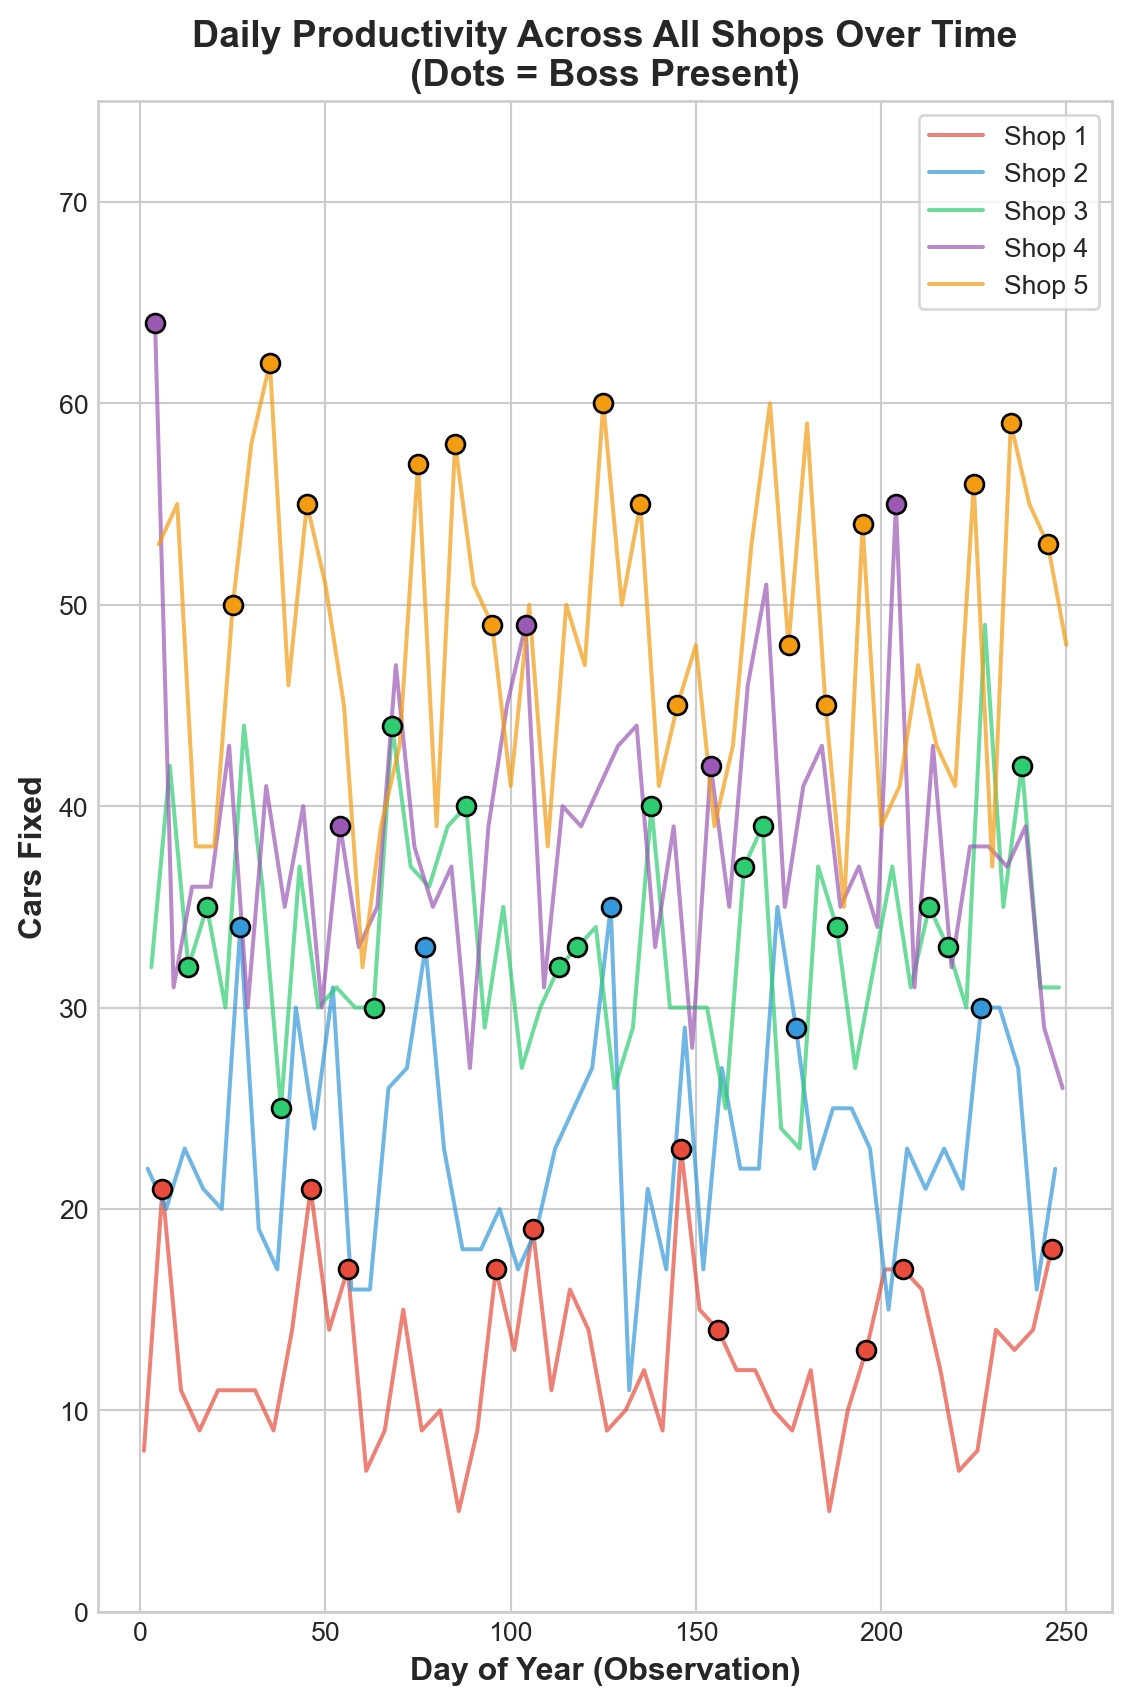
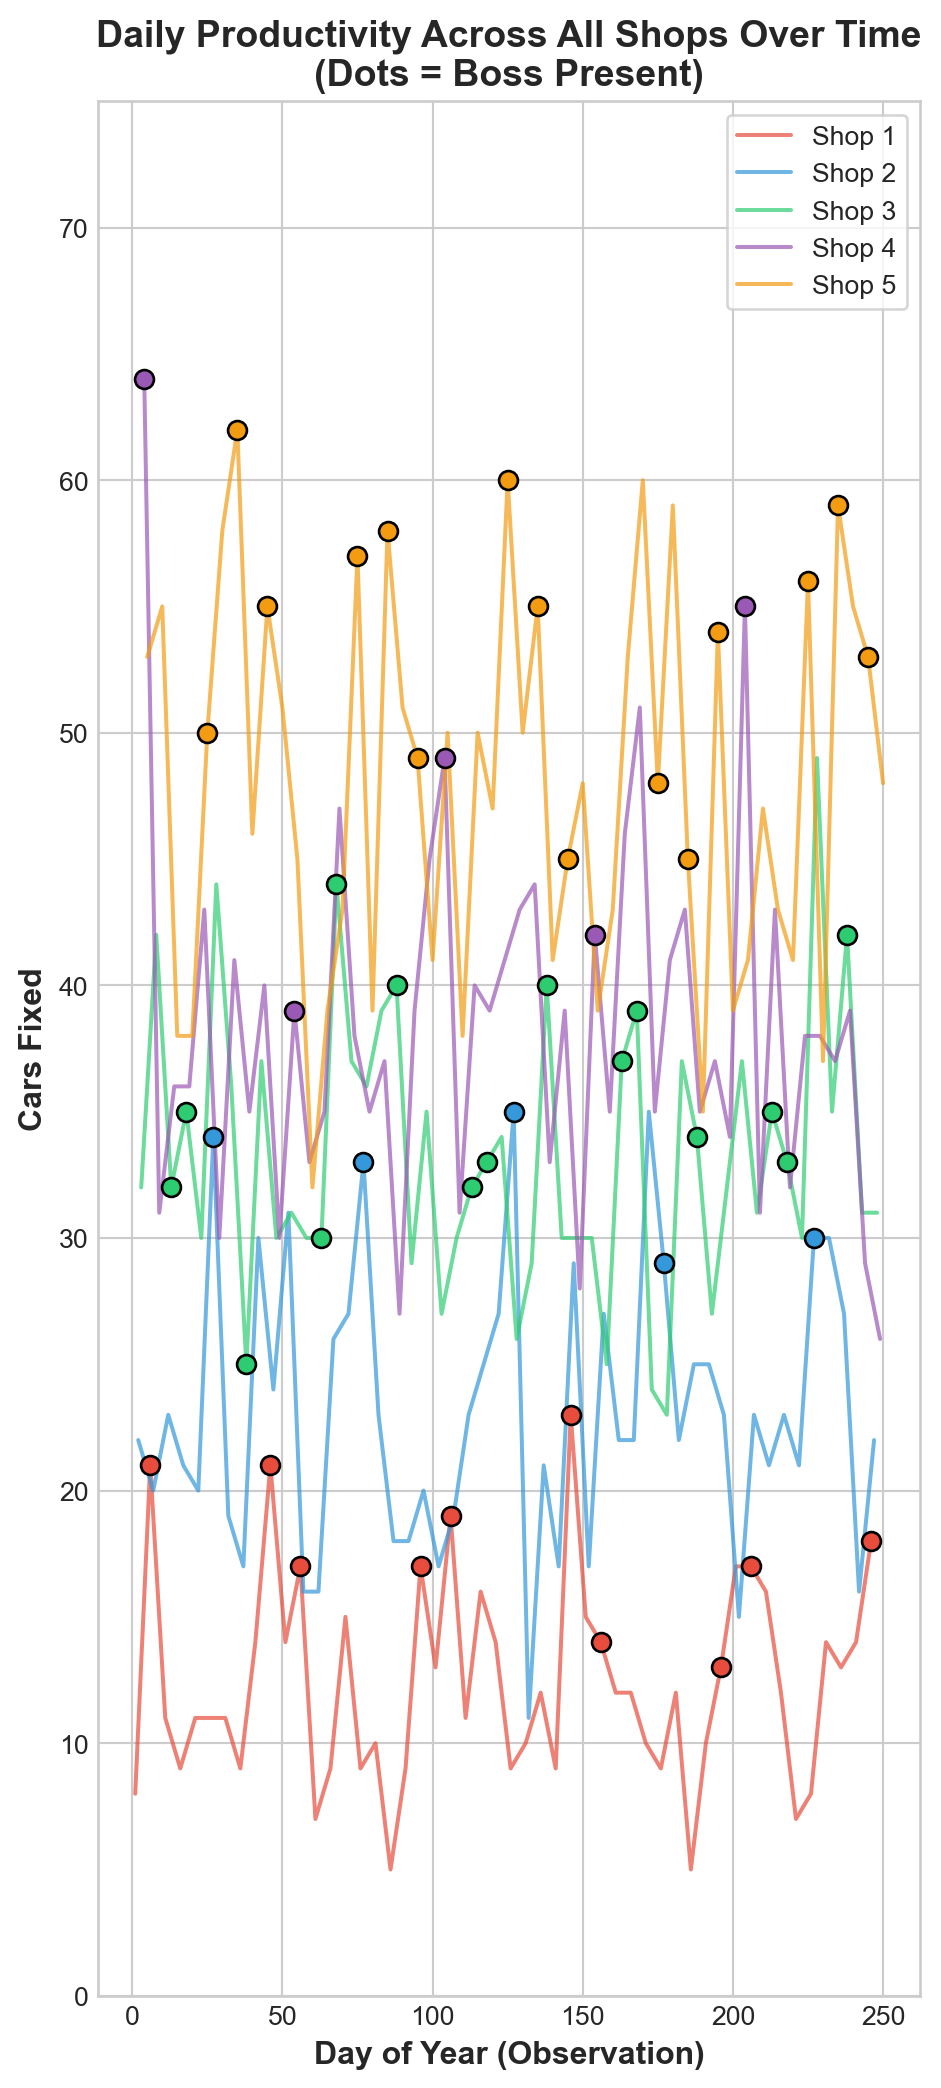
Render index.qmd

diff --git a/index.html b/index.html
@@ -103,7 +103,7 @@ ul.task-list li input[type="checkbox"] {
 <section id="what-the-data-shows" class="level2">
 <h2 class="anchored" data-anchor-id="what-the-data-shows">What the Data Shows</h2>
 <p>We analyzed 250 days of productivity data across your 5 shops. Here’s every single day plotted—you can see the pattern clearly:</p>
-<div id="d6710095" class="cell" data-fig-height="6" data-fig-width="8" data-execution_count="2">
+<div id="7e7b2c06" class="cell" data-fig-height="6" data-fig-width="8" data-execution_count="2">
 <div class="cell-output cell-output-display">
 <div class="quarto-figure quarto-figure-center">
 <figure class="figure">
@@ -119,7 +119,7 @@ ul.task-list li input[type="checkbox"] {
 <section id="d-view-shop-performance-landscape" class="level2">
 <h2 class="anchored" data-anchor-id="d-view-shop-performance-landscape">3D View: Shop Performance Landscape</h2>
 <p>Here’s an interactive 3D perspective showing all three dimensions at once—Shop ID, your presence status, and cars fixed:</p>
-<div id="a5d7617c" class="cell" data-fig-height="8" data-fig-width="10" data-execution_count="3">
+<div id="6d5a92a5" class="cell" data-fig-height="8" data-fig-width="10" data-execution_count="3">
 <div class="cell-output cell-output-display">
 <div class="quarto-figure quarto-figure-center">
 <figure class="figure">
@@ -135,7 +135,7 @@ ul.task-list li input[type="checkbox"] {
 <section id="the-boss-boost-effect" class="level2">
 <h2 class="anchored" data-anchor-id="the-boss-boost-effect">The “Boss Boost” Effect</h2>
 <p>Here’s the real question: <strong>How many extra cars get fixed when you’re at each shop?</strong></p>
-<div id="66478313" class="cell" data-fig-height="5" data-fig-width="9" data-execution_count="4">
+<div id="c5a13553" class="cell" data-fig-height="5" data-fig-width="9" data-execution_count="4">
 <div class="cell-output cell-output-display">
 <div class="quarto-figure quarto-figure-center">
 <figure class="figure">
@@ -192,7 +192,7 @@ ul.task-list li input[type="checkbox"] {
 <section id="how-confident-can-you-be" class="level2">
 <h2 class="anchored" data-anchor-id="how-confident-can-you-be">How Confident Can You Be?</h2>
 <p><strong>The honest truth:</strong> We only have 250 days of data, and you weren’t at every shop equally. Here’s what that means:</p>
-<div id="ca54e0e9" class="cell" data-fig-height="3" data-fig-width="6" data-execution_count="5">
+<div id="56c3b165" class="cell" data-fig-height="3" data-fig-width="6" data-execution_count="5">
 <div class="cell-output cell-output-display">
 <div class="quarto-figure quarto-figure-center">
 <figure class="figure">
@@ -219,7 +219,7 @@ ul.task-list li input[type="checkbox"] {
 <section id="the-money-question" class="level2">
 <h2 class="anchored" data-anchor-id="the-money-question">The Money Question 💰</h2>
 <p>Let’s say each car fixed earns you <strong>$200 in profit</strong>. Here’s what different scheduling strategies could mean for your wallet:</p>
-<div id="dacfdce3" class="cell" data-fig-height="7" data-fig-width="9" data-execution_count="6">
+<div id="6926f6cf" class="cell" data-fig-height="7" data-fig-width="9" data-execution_count="6">
 <div class="cell-output cell-output-display">
 <div class="quarto-figure quarto-figure-center">
 <figure class="figure">
@@ -304,11 +304,11 @@ ul.task-list li input[type="checkbox"] {
 </section>
 <section id="one-final-chart-productivity-over-the-year" class="level3">
 <h3 class="anchored" data-anchor-id="one-final-chart-productivity-over-the-year">One Final Chart: Productivity Over the Year</h3>
-<div id="cdb4f5aa" class="cell" data-fig-height="9" data-fig-width="6" data-execution_count="7">
+<div id="ca2b52de" class="cell" data-fig-height="11" data-fig-width="5" data-execution_count="7">
 <div class="cell-output cell-output-display">
 <div class="quarto-figure quarto-figure-center">
 <figure class="figure">
-<p><img src="index_files/figure-html/cell-8-output-1.png" width="566" height="852" class="figure-img"></p>
+<p><img src="index_files/figure-html/cell-8-output-1.png" width="471" height="1044" class="figure-img"></p>
 <figcaption>Daily productivity across all shops throughout the year</figcaption>
 </figure>
 </div>
